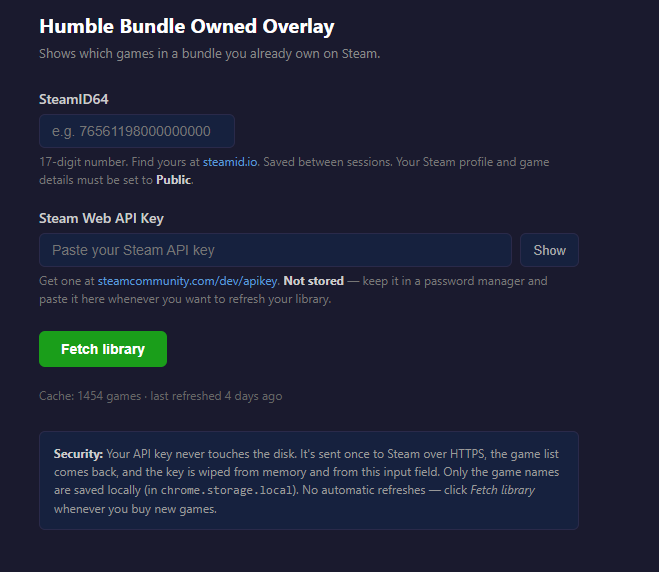
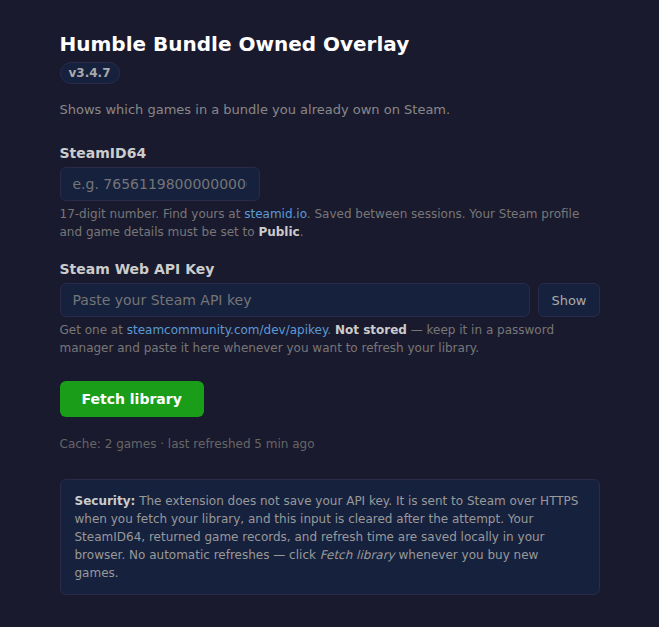
Refresh public documentation and remove obsolete test archives

Changed region(s): [[0.0607, 0.0297, 0.9105, 0.7133], [0.0607, 0.7727, 0.8801, 0.9213], [0.7891, 0.4161, 0.8801, 0.4458]]

diff --git a/BROWSER-VALIDATION.md b/BROWSER-VALIDATION.md
@@ -1,89 +1,49 @@
-# Local browser validation — 2026-10-25
+# Browser validation — v3.4.7
 
-The local v3.3.10 development build passed the checks below. The comparison baseline is unchanged Chrome v3.3.9 at repository commit `e60c203c05f603814acb3683f60ae64172f8fa5d`. Nothing has been submitted to a browser store.
+Checked on 2026-10-25. The current source passed 64 automated tests, both package validators, and Mozilla `web-ext` lint with zero errors, warnings, or notices. The user also confirmed successful testing with signed-in Humble pages and a real Steam library. That acceptance is separate from the synthetic-library browser checks below.
 
-## Icon update: v3.4.7
+## Browser checks
 
-The extension and action manifests now declare PNG icons at the appropriate sizes. The editable vector source and a librsvg rendering script are checked in; PNGs ship directly without adding a runtime dependency.
-
-- 64 automated tests passed; both package validators and Firefox lint passed without errors, warnings, or notices.
-- Native Chromium 156.0.8078.47 and Firefox 158.0.1 decoded every declared icon at its expected 16, 32, 48, 96, or 128 pixel size. The Chromium extensions page displayed the new icon correctly.
-- Background cache messaging passed in both browsers. Runtime JavaScript, HTML, CSS, and permissions are unchanged from the accepted v3.4.6 build.
-- Both ZIPs passed CRC checks and include all five PNG assets, for sixteen runtime/license files per browser.
-
-## Canary integration: v3.4.6
-
-The reviewed work was merged onto the existing v3.4.5 canary source as v3.4.6. The toolbar popup, its script, and its manifest declaration were preserved; the reverted account-page badges and expanded Steam links were not restored. The shared background/content/options scripts, CSS, and normalizer remain byte-identical to the tested v3.3.10 build. The manifest retains the canary popup declaration and advances the version.
-
-- 59 automated tests passed, including four new popup behavior and package-completeness regressions. Both browser builds passed validation; Firefox lint reported zero errors, warnings, and notices.
-- Native Chromium 156.0.8078.47 and Firefox 158.0.1 passed the live Choice/bundle count checks at desktop and narrow widths, failed-refresh recovery, and idle checks again. Chromium's stopped worker recovered through a cached read.
-- Both browsers also passed native fresh/cached popup checks, stale-badge removal, cache-change propagation, and final visual counter/badge checks.
-- Both runtime ZIPs contain eleven files, including the popup and its script, without development dependencies. Independent archive checks confirmed each package matches the merged source.
-- The earlier v3.3.10 Chrome test ZIP is retained under `test-builds/` for comparison. The current Chrome and unsigned Firefox v3.4.6 downloads are documented in `test-builds/README.md`.
-
-## Release acceptance
-
-The user confirmed successful testing with signed-in Humble pages and a real Steam library. This is user-reported acceptance, separate from the synthetic-library automation above.
-
-Fresh disposable Chromium 156.0.8078.47 and Firefox 158.0.1 profiles both returned `isOnToolbar: false` from their native action APIs. No extension code changes were needed for toolbar placement. Install/update handlers only scrub the legacy API key, and additional regression checks protect that behavior.
-
-The final suite passes 63 tests. Both validators and Firefox lint pass. Rebuilt Chrome and Firefox ZIPs are byte-identical to the v3.4.6 packages accepted by the user; the final changes affect documentation, tests, and release automation.
-
-GitHub publishes the versioned Chrome and unsigned Firefox packages after validation succeeds on `main`. Existing release tags/assets are preserved on subsequent pushes with the same version. This does not publish to either browser store.
-
-## Environment and method
-
-Tests ran on Ubuntu 24.04 ARM64 using native headless Chromium 156.0.8078.47 and Firefox 158.0.1, driven through their WebDriver implementations in disposable profiles. Chromium is not branded Google Chrome. Firefox loaded the unsigned build temporarily. These checks establish behavior in the tested browser versions; they do not establish behavior at the declared Firefox 140 minimum or on Android.
-
-Ownership caches contained synthetic Steam game records, never a user's Steam library or API key. Live tests loaded the public Humble pages below while signed out. Successful Steam responses were covered by the automated mocked-API tests, not by a real account import.
-
-## Completed checks
+Native headless Chromium 156.0.8078.47 and Firefox 158.0.1 ran on Ubuntu 24.04 ARM64 through WebDriver in disposable profiles. Chromium is not branded Google Chrome; Firefox loaded the unsigned build temporarily. Automated browser caches contained synthetic game records, never a user's library or API key.
 
 | Check | Chromium | Firefox |
 | --- | --- | --- |
-| Native extension loading, options initialization, and cached background messaging | Passed | Passed |
+| Extension loading, options initialization, and background cache messaging | Passed | Passed |
 | Public Choice: two owned games out of eight eligible Steam games | Passed | Passed |
-| Ordinary game bundle: two owned games out of eight | Passed | Passed |
-| Desktop width 1440 and narrow width 390 in Chromium / 500 in Firefox | Passed | Passed |
-| Single counter, repeated carousel cards decorated without increasing totals | Passed | Passed |
+| Ordinary bundle: two owned games out of eight | Passed | Passed |
+| Desktop width 1440 and narrow width 390 / 500, respectively | Passed | Passed |
+| One counter; repeated carousel cards decorated without inflating totals | Passed | Passed |
 | No overlay mutations during a 1.3-second idle sample on either live page | Passed | Passed |
-| Steam rejects a deliberately invalid test key with HTTP 401; controls recover, key clears, previous account/cache remain | Passed | Passed |
-| Stop the service worker, verify it disappears, then wake it through a cached library read | Passed | Not applicable to this Firefox background model |
-| Choice counter and visible owned badge actually paint unobscured at desktop and narrow widths, after dismissing the cookie banner | Passed | Passed |
-| Humble-origin synthetic fixture: stale badge removal and cache-change propagation | Automated DOM coverage | Native browser check passed |
+| Real HTTP 401 from an invalid test key: controls recover, key clears, previous account/cache remain | Passed | Passed |
+| Stopped service worker wakes through a cached library read | Passed | Not applicable to this Firefox background model |
+| Counter and owned badge paint unobscured at both widths after dismissing the cookie banner | Passed | Passed |
+| Stale-badge removal and cache-change propagation | Automated DOM coverage | Native fixture passed |
+| Fresh/cached toolbar popup and declared PNG icon decoding | Passed | Passed |
 
-The live pages were [public Choice](https://www.humblebundle.com/membership) and [Puzzlers to Puzzle You](https://www.humblebundle.com/games/puzzlers-to-puzzle-you). Choice showed ten public items; the expected total excluded IGN Plus and a playtest, leaving eight eligible Steam games. The bundle's charity entry was excluded from its eight-game total. These pages can change after this test date.
+The live pages were [public Choice](https://www.humblebundle.com/membership) and [Puzzlers to Puzzle You](https://www.humblebundle.com/games/puzzlers-to-puzzle-you). Choice's ten public items included IGN Plus and a playtest, leaving eight eligible Steam games. The ordinary bundle's charity entry was excluded. Page contents can change after the test date.
 
-The final visual run used a synthetic cache matching all eight eligible Choice games so the active card's badge could be inspected. Geometry checks were supplemented by native hit testing and screenshot inspection: a centered bounding box alone did not prove that the counter painted above Humble's carousel background.
+Visual checks combined native hit testing and screenshot inspection. A final synthetic cache matching all eight eligible Choice games made the active card's badge visible. The Chromium extensions page also displayed the v3.4.7 icon correctly.
 
-## Issues confirmed against v3.3.9 and fixed locally
+## Regression and package checks
 
-- Public Choice's desktop grid squeezed the counter into a 78-pixel column on the right. The counter now spans the grid and paints above the carousel background.
-- Narrow ordinary bundle pages could have an empty desktop tier container and a populated mobile container. The old build produced no badges or counter in this case; the development build selects the populated visible container and retags on resize.
-- Responsive/carousel copies need badges on each physical card while totals count each title once. Discovery and stale-badge cleanup now preserve this distinction.
-- On both tested live pages, the baseline generated 12 overlay mutations in a 1.3-second idle sample. The development build generated zero in the corresponding samples. This is a short observation of overlay mutations, not a general CPU benchmark.
+The automated suite covers duplicate cards, mobile containers, cache updates, malformed responses, timeouts, error cleanup, popup behavior, installation handlers, manifests, icons, and package completeness.
 
-The baseline's failed narrow-bundle assertion is evidence of the pre-existing issue; both development-build live-page runs passed.
+Both browser ZIPs passed archive/CRC checks and contain sixteen runtime/license files, including all five PNG icon sizes. Only the manifests differ between browsers; JavaScript, HTML, and CSS are shared. Neither ZIP includes Node packages or development dependencies. Runtime code and permissions are unchanged from the user-accepted v3.4.6 build; v3.4.7 adds the extension and toolbar icons.
 
-## Automated and package validation
+The earlier review compared Chrome v3.3.9 at `e60c203c05f603814acb3683f60ae64172f8fa5d`. It confirmed and fixed the narrow Choice counter, empty desktop containers hiding mobile bundle cards, duplicate-card counting, and repeated idle DOM writes. The baseline produced twelve overlay mutations in the same 1.3-second samples where the corrected build produced zero. This is a short observation, not a general CPU benchmark.
 
-- 55 automated tests passed, including duplicate-card, mobile-container, cache-update, malformed-response, timeout, error-cleanup, and browser-manifest regressions.
-- Both generated packages passed the project validator.
-- Mozilla `web-ext` 10.8.0 reported zero errors, warnings, and notices.
-- Runtime files are identical between browser ZIPs except for their manifests. Runtime packages contain no test framework or development dependencies.
-- The delivered patch applies to the baseline and reproduces the delivered source; both runtime ZIPs passed independent archive/CRC checks.
+Versioned browser ZIPs are kept in [GitHub Releases](https://github.com/Armadyl00/humble-owned-overlay/releases). CI validates pushes to `main` before publishing a new manifest version; subsequent pushes with the same version preserve its existing tag and assets. Browser-store submission is separate.
 
-## Remaining manual acceptance
+## Remaining manual coverage
 
-- Branded Google Chrome on a user's desktop, especially its actual unpacked/store installation and permission flow.
-- Detailed CLAIMED transitions, site dropdown stacking, and back/forward edge cases on authenticated pages beyond the user-reported signed-in acceptance.
-- Additional private/unavailable-library, actual disconnection, slow-request, and revoked-host-permission checks. Real-library import passed user acceptance; error variants have automated mocked coverage, and the real HTTP 401 path passed in both browsers.
+- Store-installed branded Chrome and Mozilla-signed Firefox, including installation permissions and Firefox data consent.
+- Detailed CLAIMED transitions, dropdown stacking, and back/forward edge cases beyond the user's signed-in acceptance.
+- Additional real private/unavailable-library, disconnection, slow-request, and revoked-host-permission cases. Error variants have mocked coverage, and the real HTTP 401 path passed in both browsers.
 - Browser restart persistence and Firefox background suspension/restart behavior.
-- A Mozilla-signed Firefox installation, data consent, installation permissions, and final submission metadata.
-- Firefox 140 and Android. Android support is not verified or advertised.
+- The declared Firefox 140 minimum and Android. Android support is not verified or advertised.
 
-The Firefox ZIP remains unsigned. See [FIREFOX.md](FIREFOX.md) for distribution requirements and [TESTING.md](TESTING.md) for the full acceptance checklist. Broader Unicode matching, mixed-layout Choice discovery, edition/DLC semantics, and non-Steam filtering for ordinary bundles remain outside this change.
+The release Firefox ZIP is unsigned. See [FIREFOX.md](FIREFOX.md) for signing requirements and [TESTING.md](TESTING.md) for the full acceptance checklist. Broader Unicode matching, edition/DLC semantics, and delivery-platform verification for ordinary bundles remain limitations.
 
 ## Development-tool dependency audit
 
-`npm audit` reports three high-severity dependency entries arising from one unpatched `node-forge` advisory through `web-ext` and its transitive Android tooling. The advisory lists no patched version: [GHSA-86w9-cpqp-85rv](https://github.com/advisories/GHSA-86w9-cpqp-85rv). No third-party Node package is shipped in either browser ZIP. The pinned validation tools are retained; npm's suggested major downgrade is not applied. This remains a development-tool maintenance follow-up, especially before using additional signing or Android tooling.
+`npm audit` reports three high-severity dependency entries from one unpatched `node-forge` advisory through `web-ext` and its transitive Android tooling: [GHSA-86w9-cpqp-85rv](https://github.com/advisories/GHSA-86w9-cpqp-85rv). The audit found no patched version. These dependencies are development tools and are absent from both browser ZIPs. Retain the pinned tools and review the advisory before additional signing or Android tooling; npm's suggested major downgrade has not been applied.

diff --git a/README.md b/README.md
@@ -41,6 +41,8 @@ On supported Humble game bundle and Humble Choice pages, game titles are compare
 
 For the published Chrome version, use the [Chrome Web Store listing](https://chromewebstore.google.com/detail/humble-bundle-owned-overl/bkbliccgapgfedaploklillhkmlailik).
 
+Browser packages are available from [GitHub Releases](https://github.com/Armadyl00/humble-owned-overlay/releases/latest). For local Chrome testing, extract the Chrome ZIP and load its folder as an unpacked extension.
+
 For a Chrome development checkout:
 
 1. Download the ZIP from this repo (Code → Download ZIP) — or `git clone`
@@ -48,9 +50,9 @@ For a Chrome development checkout:
 3. Chrome → `chrome://extensions` → enable **Developer mode** → **Load unpacked** → pick the folder
 4. Right-click the extension → **Options** → paste your Steam API key + SteamID64 → click **Fetch library**
 
-For Firefox development testing, first build the packages below. Open `about:debugging#/runtime/this-firefox`, choose **Load Temporary Add-on**, and select `dist/firefox/manifest.json`. Temporary extensions disappear when Firefox restarts. The Firefox build uses MV3 background scripts and requires desktop Firefox 140 or later. Android has a declared minimum of 142 for data consent, but Android support has not been verified.
+For Firefox development testing, extract the Firefox release ZIP or build the packages below. Open `about:debugging#/runtime/this-firefox`, choose **Load Temporary Add-on**, and select `manifest.json` from the extracted folder (`dist/firefox/manifest.json` for a source build). Temporary extensions disappear when Firefox restarts. The Firefox build requires desktop Firefox 140 or later. Android support has not been verified.
 
-A Firefox ZIP is unsigned and cannot be permanently installed into normal release Firefox until Mozilla signs it. There is no published Firefox listing yet. Use a separate test profile to compare development builds against the working Chrome version.
+A Firefox ZIP is unsigned and cannot be permanently installed into normal release Firefox until Mozilla signs it. Use a separate test profile to compare development builds against the working Chrome version.
 
 ## Development and packaging
 
